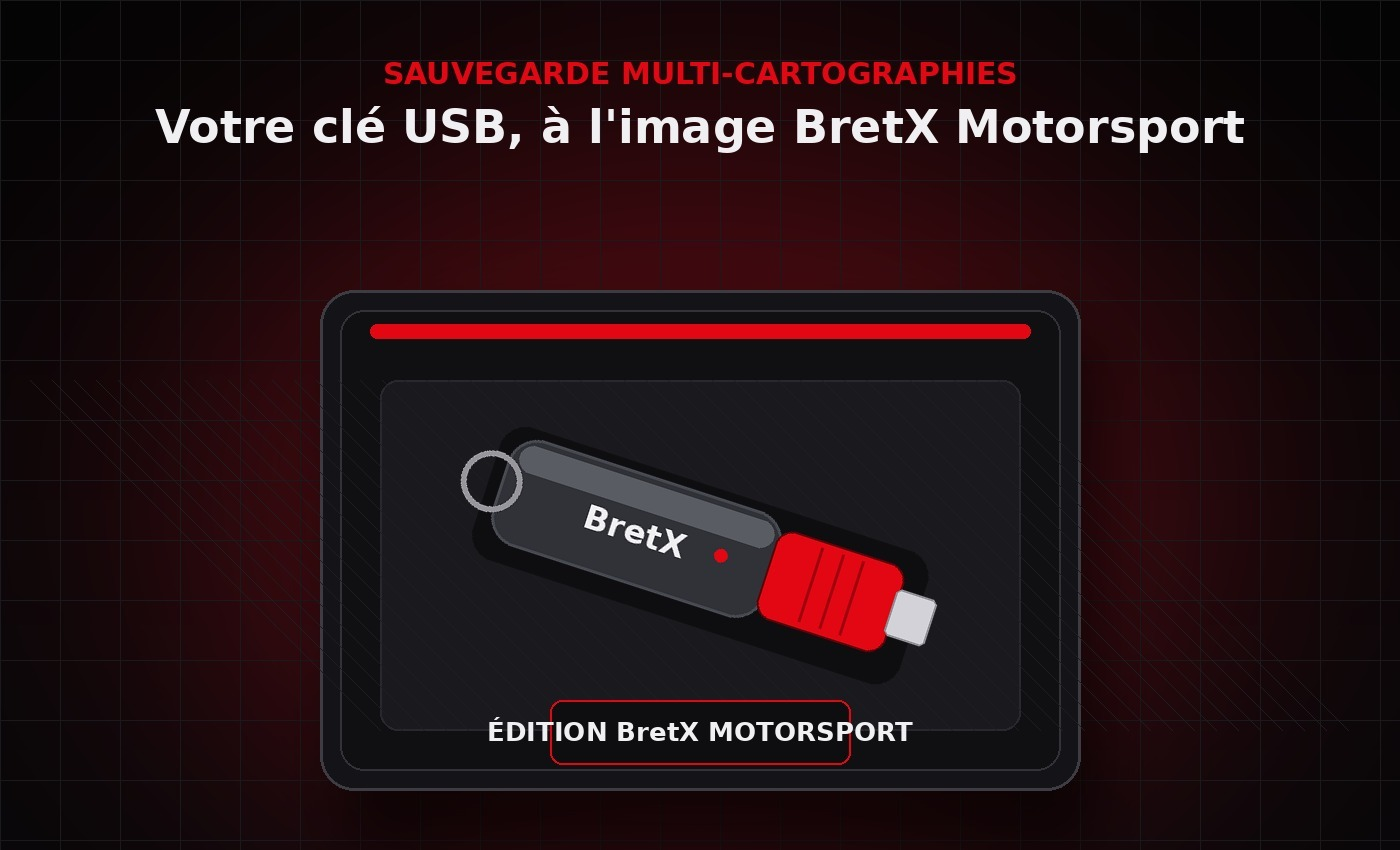
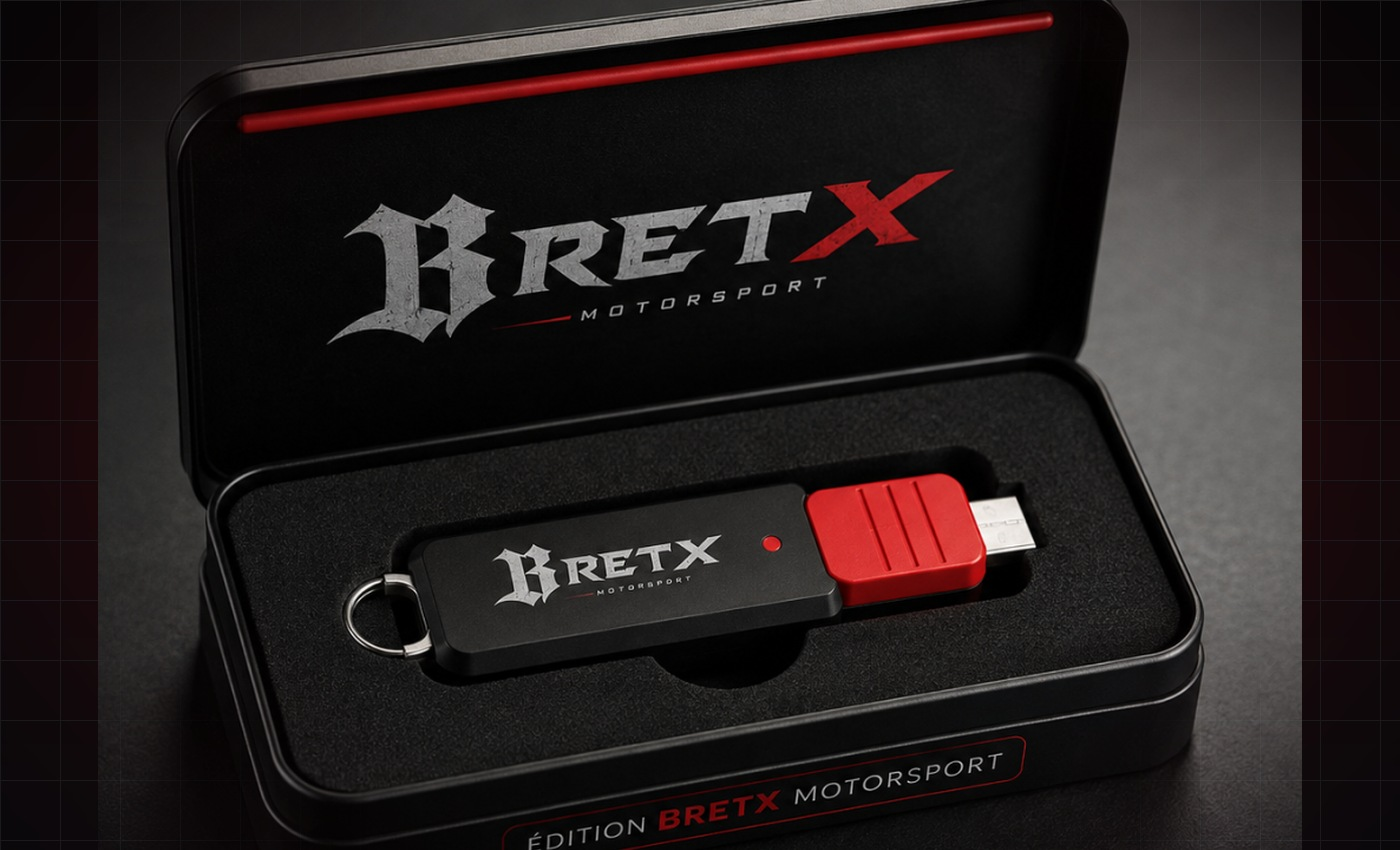
Remplace l'illustration de la cle USB par la vraie photo produit, integree sur le fond de marque BretX

diff --git a/scripts/compose_usb_photo.py b/scripts/compose_usb_photo.py
@@ -1,0 +1,85 @@
+from PIL import Image, ImageDraw, ImageFilter
+import numpy as np
+
+SRC = "/root/.claude/uploads/9e776b5f-0277-592a-b3b3-cca3dd197344/bc18ddf0-usb_bretx.webp"
+OUT = "/root/bretx-motorsport/img/usb-case-bretx.jpg"
+
+W, H = 1400, 850
+RED_DIM = (140, 10, 20)
+
+# ---------- 1) Rebuild the branded background (same style as before, no baked-in text) ----------
+bg = Image.new("RGB", (W, H), (10, 10, 12))
+px = bg.load()
+for y in range(H):
+    t = y / H
+    r = int(10 + t * 8)
+    g = int(10 + t * 8)
+    b = int(12 + t * 10)
+    for x in range(0, W, 1):
+        pass  # placeholder, replaced by faster line draw below
+
+draw = ImageDraw.Draw(bg)
+for y in range(H):
+    t = y / H
+    r = int(10 + t * 8)
+    g = int(10 + t * 8)
+    b = int(12 + t * 10)
+    draw.line([(0, y), (W, y)], fill=(r, g, b))
+
+glow = Image.new("RGB", (W, H), (0, 0, 0))
+gdraw = ImageDraw.Draw(glow)
+gdraw.ellipse([W/2-560, H/2-360, W/2+560, H/2+360], fill=RED_DIM)
+glow = glow.filter(ImageFilter.GaussianBlur(170))
+bg = Image.blend(bg, glow, 0.5)
+draw = ImageDraw.Draw(bg)
+
+grid_color = (26, 26, 30)
+step = 60
+for x in range(0, W, step):
+    draw.line([(x, 0), (x, H)], fill=grid_color, width=1)
+for y in range(0, H, step):
+    draw.line([(0, y), (W, y)], fill=grid_color, width=1)
+
+bg = bg.convert("RGBA")
+
+# ---------- 2) Load the real product photo and crop tight around the case ----------
+photo = Image.open(SRC).convert("RGB")
+# crop box estimated from the grid overlay (with a little margin)
+crop_box = (140, 15, 1160, 920)
+crop = photo.crop(crop_box)
+cw, ch = crop.size
+
+# ---------- 3) Feathered alpha mask (keeps the case fully opaque, fades the outer grey background) ----------
+mask = Image.new("L", (cw, ch), 0)
+mdraw = ImageDraw.Draw(mask)
+inset = 60  # how far in from the crop edge the fade starts
+mdraw.ellipse([-inset, -inset, cw + inset, ch + inset], fill=255)
+mask = mask.filter(ImageFilter.GaussianBlur(90))
+
+crop_rgba = crop.convert("RGBA")
+crop_rgba.putalpha(mask)
+
+# ---------- 4) Resize foreground to fit nicely on the branded canvas ----------
+target_w = int(W * 0.86)
+scale = target_w / cw
+target_h = int(ch * scale)
+fg = crop_rgba.resize((target_w, target_h), Image.LANCZOS)
+
+fx = (W - target_w) // 2
+fy = (H - target_h) // 2 + 10
+
+# soft drop shadow of the case on the branded background
+shadow = Image.new("RGBA", (W, H), (0, 0, 0, 0))
+sh_alpha = Image.new("L", (target_w, target_h), 0)
+ImageDraw.Draw(sh_alpha).ellipse([target_w*0.12, target_h*0.55, target_w*0.88, target_h*0.98], fill=140)
+sh_alpha = sh_alpha.filter(ImageFilter.GaussianBlur(40))
+shadow_layer = Image.new("RGBA", (target_w, target_h), (0, 0, 0, 255))
+shadow_layer.putalpha(sh_alpha)
+shadow.paste(shadow_layer, (fx, fy + 25), shadow_layer)
+bg = Image.alpha_composite(bg, shadow)
+
+bg.paste(fg, (fx, fy), fg)
+
+final = bg.convert("RGB")
+final.save(OUT, quality=93)
+print("saved", final.size)
